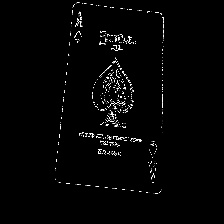
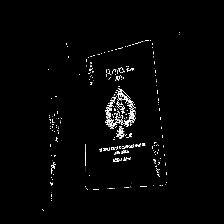
feat: Contour-based card extraction

diff --git a/src/sneaky_poker_camera/vision/preprocess.py b/src/sneaky_poker_camera/vision/preprocess.py
@@ -1,7 +1,8 @@
 import cv2
 import numpy as np
 from numpy.typing import NDArray
-from typing import Optional, Tuple
+from typing import Optional, List, Tuple
+from card_finder import CardFinder, CardFinderConfig
 
 class CardPreprocessor:
     """
@@ -14,82 +15,81 @@ class CardPreprocessor:
         5. Apply Canny edges
         6. Apply dilation filter
     """
-    def __init__(self, target_size: Tuple[int, int] = (224, 224), debug: bool = False):
-        self.target_size = target_size
+    def __init__(self, card_finder: Optional[CardFinder] = None, debug: bool = False):
+        self.card_finder = card_finder or CardFinder(debug=debug)
         self.debug = debug
 
     
-    def preprocess_image(self, image: NDArray) -> Optional[NDArray]:
+    def preprocess_cards(self, image: NDArray) -> List[NDArray]:
         """
-        Preprocessors images to help neural network detect playing cards.
+        Find and preprocess all cards in the image.
 
         Args:
-           image (NDArray): The image to preprocess
+            image (NDArray): Input image
 
         Returns:
-           NDArray: The preprocessed image
+            List[NDArray]: List of preprocessed card images
+        """
+        cards = self.card_finder.find_cards(image)
+        return [self.preprocess_single_card(card) for card in cards if card is not None]
+
+    def preprocess_single_card(self, card: NDArray) -> Optional[NDArray]:
+        """
+        Apply preprocessing steps to a single card image.
+
+        Args:
+            card (NDArray): Card image to process
+
+        Returns:
+            Optional[NDArray]: Preprocessed card image
         """
         try:
-            self.show_image("0. Original Image", image)
-
-            height, width = image.shape[:2]
-            min_dim = min(height, width)
-
-            max_working_dim = 1000
-            if min_dim > max_working_dim:
-                scale = max_working_dim / min_dim
-                working_image = cv2.resize(image, None, fx=scale, fy=scale)
-                self.show_image("1. Resized image", working_image)
-            else:
-                working_image = image.copy()
-
-            gray = cv2.cvtColor(image, cv2.COLOR_BGR2GRAY)
-            self.show_image("2. Grayscale", gray)
-
+            gray = cv2.cvtColor(card, cv2.COLOR_BGR2GRAY)
+            self._show_debug("Grayscale", gray)
+            
             blurred = cv2.GaussianBlur(gray, (7, 7), 0)
-            self.show_image("3. Blurred", blurred)
+            self._show_debug("Blurred", blurred)
 
             thresh = cv2.adaptiveThreshold(
-                    blurred,
-                    255,
-                    cv2.ADAPTIVE_THRESH_GAUSSIAN_C,
-                    cv2.THRESH_BINARY,
-                    11,
-                    2
+                blurred,
+                255,
+                cv2.ADAPTIVE_THRESH_GAUSSIAN_C,
+                cv2.THRESH_BINARY,
+                11,
+                2
             )
-            self.show_image("4. Adaptive Threshold", thresh)
+            self._show_debug("Adaptive Threshold", thresh)
 
             edges = cv2.Canny(blurred, 30, 50)
-            self.show_image("5. Canny Edges", edges)
+            self._show_debug("Canny Edges", edges)
 
             kernel = cv2.getStructuringElement(cv2.MORPH_RECT, (3, 3))
             dilated = cv2.dilate(edges, kernel, iterations=1)
-            self.show_image("6. Dilated Edges", dilated)
+            self._show_debug("Dilated Edges", dilated, wait=True)
 
-            final = cv2.resize(dilated, self.target_size)
-            self.show_image("7. Final result", final, wait=True)
-
-            return final
+            return dilated
         except Exception as e:
-            print(f"Error during image preprocessing: {e}")
+            print(f"ERROR - process_single_card(): {e}")
             return None
 
 
-    def show_image(self, name: str, image: NDArray, wait: bool = True) -> None:
+    def _show_debug(self, name: str, image: NDArray, wait: bool = True) -> None:
+        """Display debug images if debug mode is enabled"""
         if self.debug:
             cv2.namedWindow(name, cv2.WINDOW_NORMAL)
             height, width = image.shape[:2]
             max_dim = 800
             if max(height, width) > max_dim:
+                print(f"INFO - _show_debug(): scaling image")
                 scale = max_dim / max(height, width)
                 cv2.resizeWindow(name, int(width * scale), int(height * scale))
             cv2.imshow(name, image)
             if wait:
                 key = cv2.waitKey(0)
-                if key == ord('q'):
+                if key == ord("q"):
                     self.debug = False
                 cv2.destroyWindow(name)
-
+    
 
 if __name__ == "__main__":
     """
@@ -99,7 +99,7 @@ if __name__ == "__main__":
     from pathlib import Path
 
     try:
-        image_path = Path("captured_image.jpg")
+        image_path = Path("capture.jpg")
         if not image_path.exists():
             print(f"ERROR: Image not found at {image_path}")
             sys.exit(1)
@@ -109,17 +109,14 @@ if __name__ == "__main__":
             print(f"ERROR: Failed to load test image")
             sys.exit(1)
 
-        card_preprocessor = CardPreprocessor(debug=True)
-        processed_image = card_preprocessor.preprocess_image(image)
-
-        if processed_image is not None:
-            output_path = Path("preprocessed_card.jpg")
-            cv2.imwrite(str(output_path), processed_image)
-            print(f"Preprocseed image saved to {output_path}")
-            print(f"Processed shape: {processed_image.shape}")
+        preprocessor = CardPreprocessor(debug=True)
+        processed_cards = preprocessor.preprocess_cards(image)
+        if processed_cards:
+            print(f"Found and processed {len(processed_cards)} cards")
+            for i, card in enumerate(processed_cards):
+                cv2.imwrite(f"procseed_card_{i}.jpg", card)
+                print(f"INFO - main: Saved to processed_card_{i}.jpg")
         else:
-            print("ERROR: Failed to preprocess image")
-
-
+            print("WARN - main: No cards found or processed")
     except Exception as e:
         print(f"ERROR: {e}")

diff --git a/src/sneaky_poker_camera/vision/card_finder.py b/src/sneaky_poker_camera/vision/card_finder.py
@@ -1,0 +1,173 @@
+import cv2
+import numpy as np
+from numpy.typing import NDArray
+from typing import Optional, Tuple, List
+from dataclasses import dataclass
+
+@dataclass
+class CardFinderConfig:
+    """Configuration parameters for card detection"""
+    min_card_area = 2000
+    max_card_area = 2000000
+    card_aspect_ratio = 1.4
+    aspect_ratio_tolerance = 0.3
+    target_size = (224, 224)
+    max_working_dim = 1000
+
+
+class CardFinder:
+    """Handles detection and extraction of playing cards from images"""
+    def __init__(self,
+                 config: Optional[CardFinderConfig] = None,
+                 debug: bool = False):
+
+        self.config = config or CardFinderConfig()
+        self.debug = debug
+
+
+    def find_cards(self, image: NDArray) -> List[NDArray]:
+        """
+        Finds and extracts playing cards from an image.
+
+        Args:
+            image (NDArray): Input iamge
+
+        Returns:
+            List[NDArray]: List of extract card images
+        """
+        try:
+            height, width = image.shape[:2]
+            min_dim = min(height, width)
+            if min_dim > self.config.max_working_dim:
+                scale = self.config.max_working_dim / min_dim
+                working_image = cv2.resize(image, None, fx=scale, fy=scale)
+                self._show_debug("Resized for card identification", working_image)
+            else:
+                working_image = image.copy()
+                scale = 1.0
+
+            gray = cv2.cvtColor(working_image, cv2.COLOR_BGR2GRAY)
+            blurred = cv2.GaussianBlur(gray, (7, 7), 0)
+            thresh = cv2.adaptiveThreshold(
+                blurred,
+                255,
+                cv2.ADAPTIVE_THRESH_GAUSSIAN_C,
+                cv2.THRESH_BINARY,
+                11,
+                2
+            )
+
+            edges = cv2.Canny(blurred, 30, 150)
+            kernel = cv2.getStructuringElement(cv2.MORPH_RECT, (3, 3))
+            dilated = cv2.dilate(edges, kernel, iterations=2)
+            self._show_debug("Edge Detection", dilated)
+            contours, _ = cv2.findContours(
+                dilated,
+                cv2.RETR_EXTERNAL,
+                cv2.CHAIN_APPROX_SIMPLE
+            )
+
+            cards = []
+            for contour in contours:
+                card = self._extract_card(contour, working_image, scale)
+                if card is not None:
+                    cards.append(card)
+                    self._show_debug("Detected Card", card)
+
+            if self.debug:
+                debug_image = working_image.copy()
+                cv2.drawContours(debug_image, contours, -1, (0, 255, 0), 2)
+                self._show_debug("All Contours", debug_image)
+
+            return cards
+        except Exception as e:
+            print(f"ERROR - find_cards(): {e}")
+            return []
+
+
+    def _extract_card(self, contour: NDArray, image: NDArray, scale: float) -> Optional[NDArray]:
+        """
+        Extracts a single card from a contour.
+
+        Args:
+            contour (NDArray): Contour to analyze
+            image (NDArray): Source image
+            scale (float): Scale factor of the image
+
+        Returns:
+            Option[NDArray]: Extracted card image if valid, None otherwise
+        """
+        area = cv2.contourArea(contour)
+        scaled_min_area = self.config.min_card_area * (scale ** 2)
+        scaled_max_area = self.config.max_card_area * (scale ** 2)
+
+        if not (scaled_min_area <= area <= scaled_max_area):
+            print("WARNING - _extract_card(): contour area out of bounds")
+            return None
+
+        peri = cv2.arcLength(contour, True)
+        approx = cv2.approxPolyDP(contour, 0.02 * peri, True)
+
+        if len(approx) != 4:
+            print("WARNINIG - _extract_card(): contour is not rectangular")
+            return None
+
+        rect = cv2.minAreaRect(contour)
+        width = min(rect[1])
+        height = max(rect[1])
+        if width == 0:
+            print("WARNING - _extract_card(): contour width == 0")
+            return None
+
+        aspect_ratio = height / width
+        expected_ratio = self.config.card_aspect_ratio
+        """
+        if not (expected_ratio - self.config.aspect_ratio_tolerance <=
+                aspect ratio <=
+                expected_ratio + self.config.aspect_ratio_tolerance):
+
+            print("WARNING - _extract_card(): contour aspect ratio out of "
+                  "bounds"
+            return None
+        """
+
+        points = np.float32(approx.reshape(4, 2))
+        center = np.mean(points, axis=0)
+        sorted_points = sorted(points, key=lambda p:
+            (np.arctan2(p[1] - center[1], p[0] - center[0]) + np.pi) % (2 * np.pi))
+        points = np.array(sorted_points)
+
+        target_width = int(self.config.target_size[0])
+        target_height = int(target_width * self.config.card_aspect_ratio)
+        target_points = np.float32([
+            [0, 0],
+            [target_width, 0],
+            [target_width, target_height],
+            [0, target_height]
+        ])
+
+        matrix = cv2.getPerspectiveTransform(points, target_points)
+        card = cv2.warpPerspective(
+            image,
+            matrix,
+            (target_width, target_height)
+        )
+
+        return cv2.resize(card, self.config.target_size)
+
+
+    def _show_debug(self, name: str, image: NDArray, wait: bool = True) -> None:
+        """Display debug images if debug mode is enabled"""
+        if self.debug:
+            cv2.namedWindow(name, cv2.WINDOW_NORMAL)
+            height, width = image.shape[:2]
+            max_dim = 800
+            if max(height, width) > max_dim:
+                scale = max_dim / max(height, width)
+                cv2.resizeWindow(name, int(width * scale), int(height * scale))
+            cv2.imshow(name, image)
+            if wait:
+                key = cv2.waitKey(0)
+                if key == ord("q"):
+                    self.debug = False
+                cv2.destroyWindow(name)
